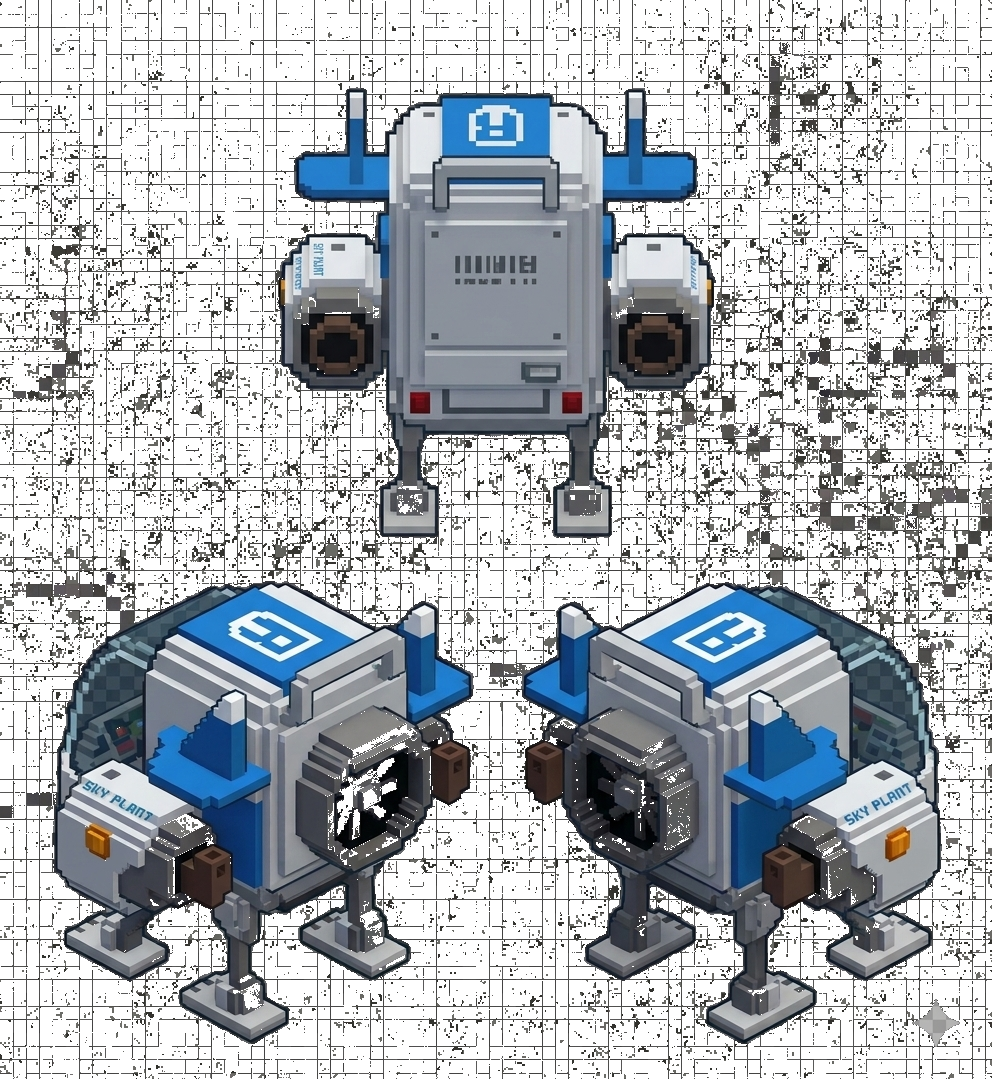
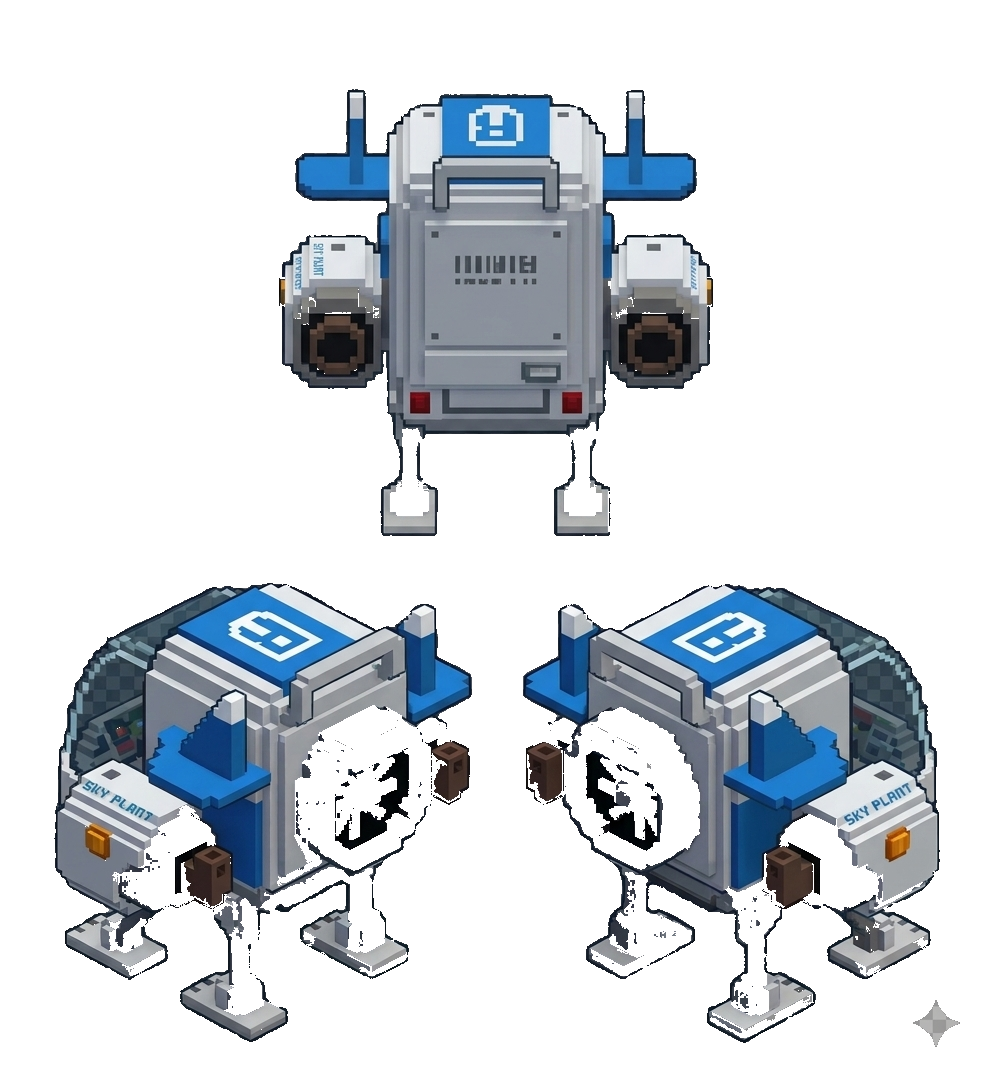
Clean mech sprite background with flood-fill
The narrow color-key tolerance left a dark anti-aliased fringe around the
mech. Replace with a flood-fill from the image borders using wider
gray-luminance tolerance, traversing through already-transparent pixels to
reach all background-connected fringe.

Changed region(s): [[0.0, 0.0, 1.0, 1.0], [0.3125, 0.0, 0.6562, 0.1529], [0.25, 0.0306, 0.2812, 0.1223]]

diff --git a/endless-dodge/game.js b/endless-dodge/game.js
@@ -52,7 +52,7 @@
   let mechReady = false;
   mechSheet.onload = () => { mechReady = true; };
   mechSheet.onerror = () => { mechReady = false; };
-  mechSheet.src = 'assets/mech-sheet.png?v=2';
+  mechSheet.src = 'assets/mech-sheet.png?v=3';
 
   const FRAMES = {
     left:   [56,  584, 416, 443],
